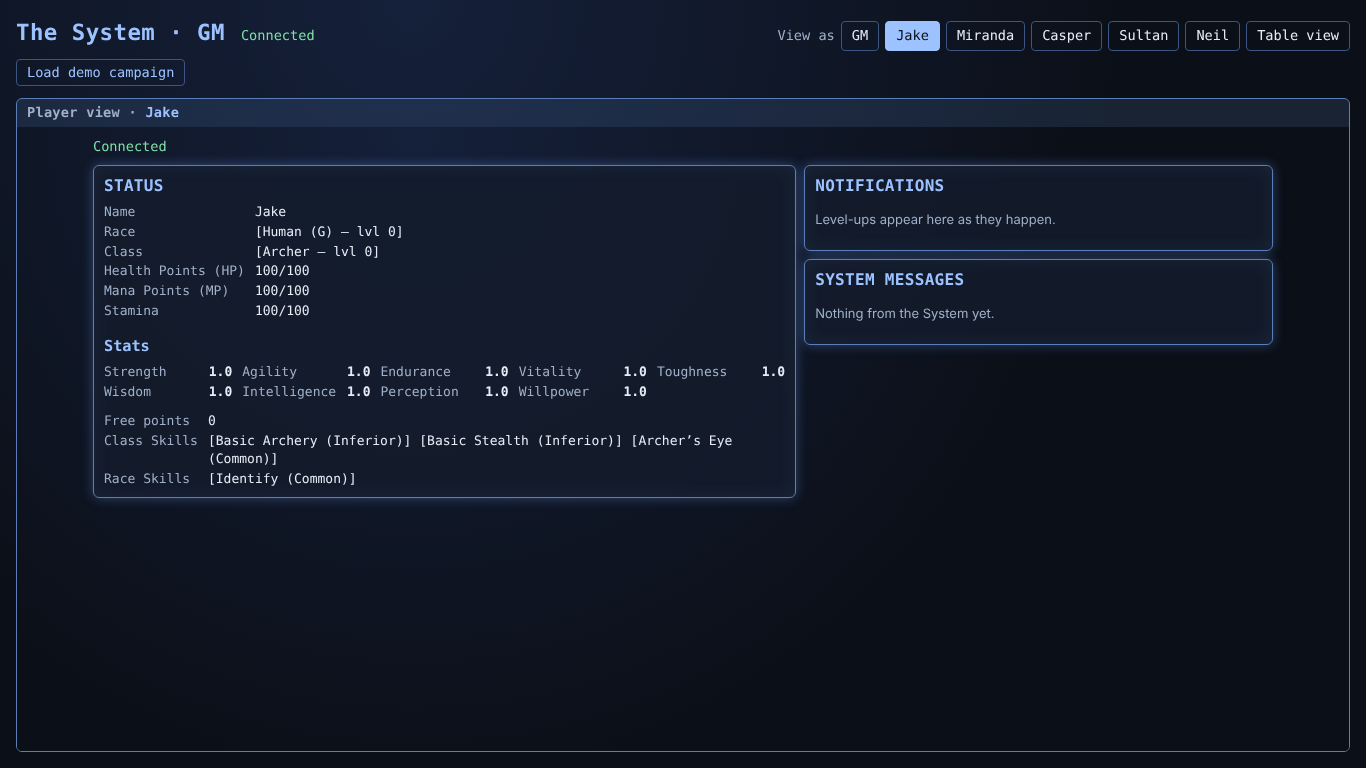
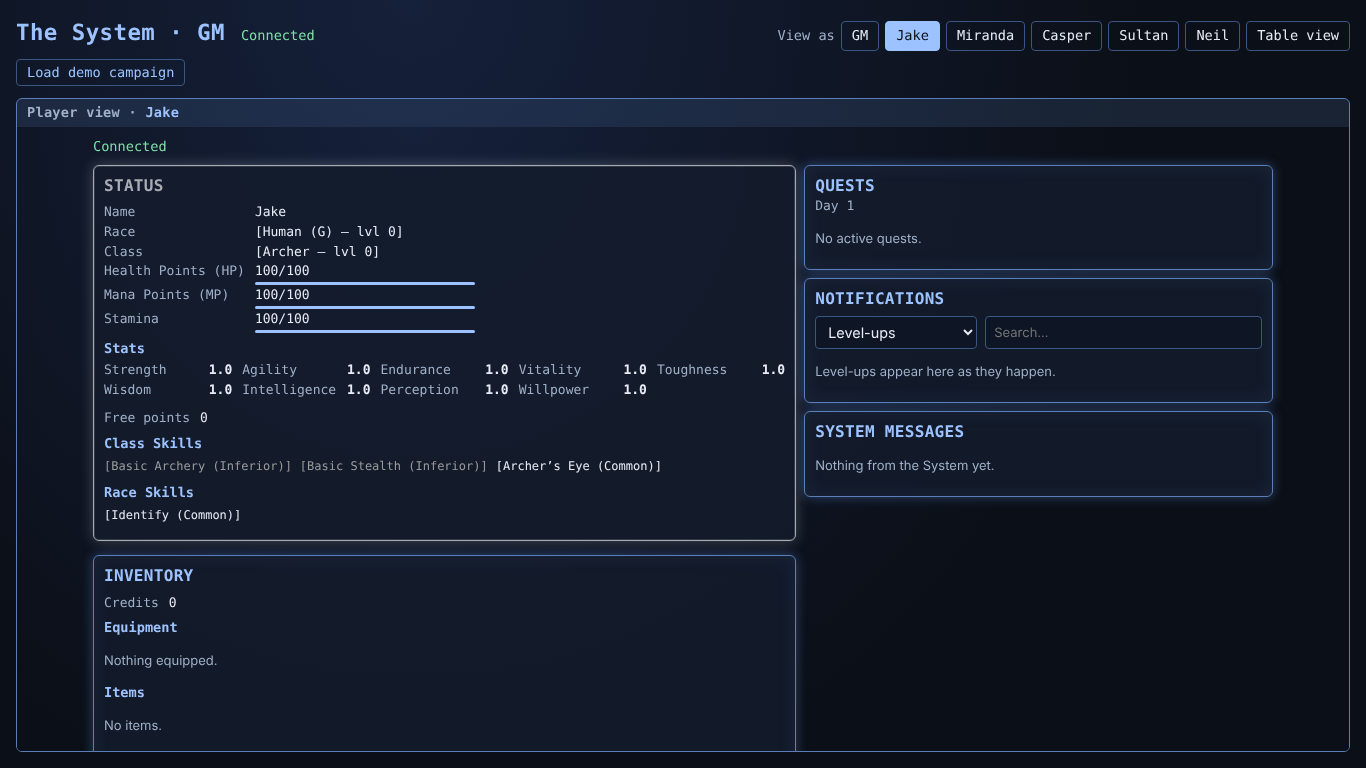
test: give the 40-session simulation a 60 s limit (CI coverage run hit the 5 s default); perf: skip item bonuses when nothing is worn; docs: check M3.8, review log
Claude-Session: https://claude.ai/code/session_01M556vucMAQVV2QSY8JL1qh

diff --git a/packages/engine/src/events/reducer.ts b/packages/engine/src/events/reducer.ts
@@ -264,8 +264,14 @@ function clampToEffective(
 }
 
 /** Effective stats of a character in this state (base + equipped items). */
-function effectiveOf(state: CampaignState, c: Character): Record<string, number> {
-  return itemEffectiveStats(state.rules, c.stats, holdingsOf(state, c.id), state.items);
+function effectiveOf(
+  state: CampaignState,
+  c: Character,
+): Readonly<Record<string, number>> {
+  const held = holdingsOf(state, c.id);
+  // Fast path: nothing worn means no item bonuses (the common case per event).
+  if (Object.keys(held.equipped).length === 0) return c.stats;
+  return itemEffectiveStats(state.rules, c.stats, held, state.items);
 }
 
 function applyEventRaw(state: CampaignState | null, event: DomainEvent): CampaignState {

diff --git a/packages/engine/test/simulation.test.ts b/packages/engine/test/simulation.test.ts
@@ -812,7 +812,9 @@ describe('campaign simulation (ROADMAP M1.14)', () => {
       expect(evolutionTarget(rules, ch), `seed ${SEED}: ${id}`).toBeNull();
     }
     expect(sim().tally.levelsPerSession, `seed ${SEED}`).toHaveLength(SESSIONS);
-  });
+    // This test runs the whole 40-session simulation (the others reuse it);
+    // under coverage instrumentation on CI it takes about 5 s, the default limit.
+  }, 60_000);
 
   it(`race levels per session follow a random 4–8 plan averaging 6 (seed ${SEED})`, () => {
     const { tally } = sim();

diff --git a/docs/REVIEW-LOG.md b/docs/REVIEW-LOG.md
@@ -340,3 +340,15 @@
   - L accepted:
     - A DING toast can cover part of an open form on a 390 px phone. This is the existing toast position; M8 theming can move it.
     - Focus is not rescued after Cancel or a refused command (the button stays in those cases).
+
+## 2026-10-22 · M3.8 Quest log · reviewer: sonnet (fresh context)
+- Round 1 (1ac9417..23e69c2): 0 High, 1 Medium, 4 Low.
+  - M: on phones the Quests window came after Status and the whole Inventory, so deadlines were buried. Fixed: in one column the order is Status, Quests, Inventory, then the feeds (`display: contents` plus `order`). The e2e asserts the order.
+  - L fixed:
+    - The gauge label shows the percent (DESIGN "World Stability %"), so it agrees with the bar on any configured range.
+    - `aria-valuetext` is set and checked after a live change.
+    - The `.quest` border selectors are scoped.
+  - L accepted:
+    - Failed and expired quests are covered by helper unit tests only.
+    - The e2e drives the GM over a raw WebSocket, as in earlier specs.
+- Round 2 (23e69c2..6bf8fdf): 0 High, 0 Medium, 3 Low, all accepted. The order is measured once; the label can show one decimal; the failed-quest rendering gap stands.

diff --git a/docs/ROADMAP.md b/docs/ROADMAP.md
@@ -210,7 +210,7 @@ the full ones.
   Project holdings, own trades and the definitions of held/offered items;
   switch pool maxima and the stats block to effective stats (D60). The e2e
   checks the demo's equipped ring and bow on Jake's screen (D70).
-- [ ] **M3.8 Quest log.** Text, days left, stability gauge when visible.
+- [x] **M3.8 Quest log.** Text, days left, stability gauge when visible.
   The e2e checks the demo quest's visible gauge (89) on a player screen (D70).
 - [ ] **M3.9 Identify.** Choose a known entity; show tier text.
 - [ ] **M3.10 Notes.** Private journal (markdown, shareable toggle), live
